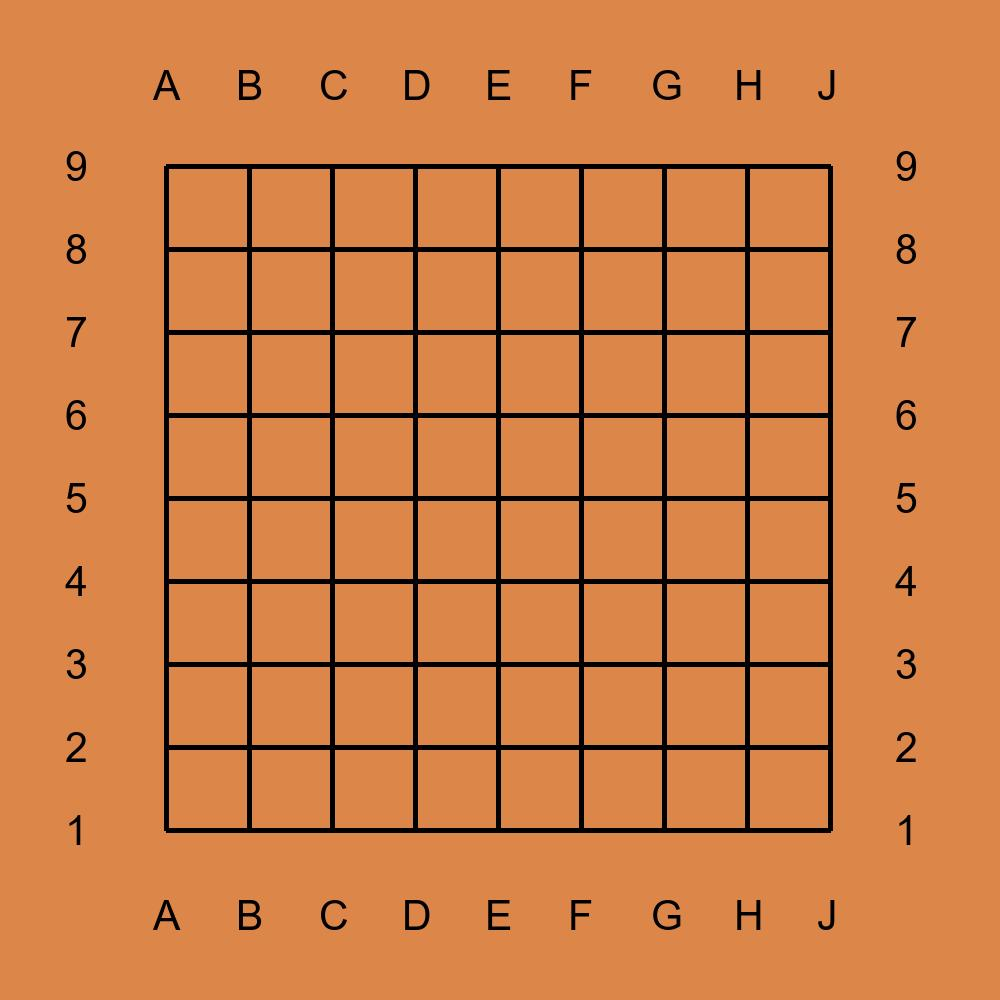
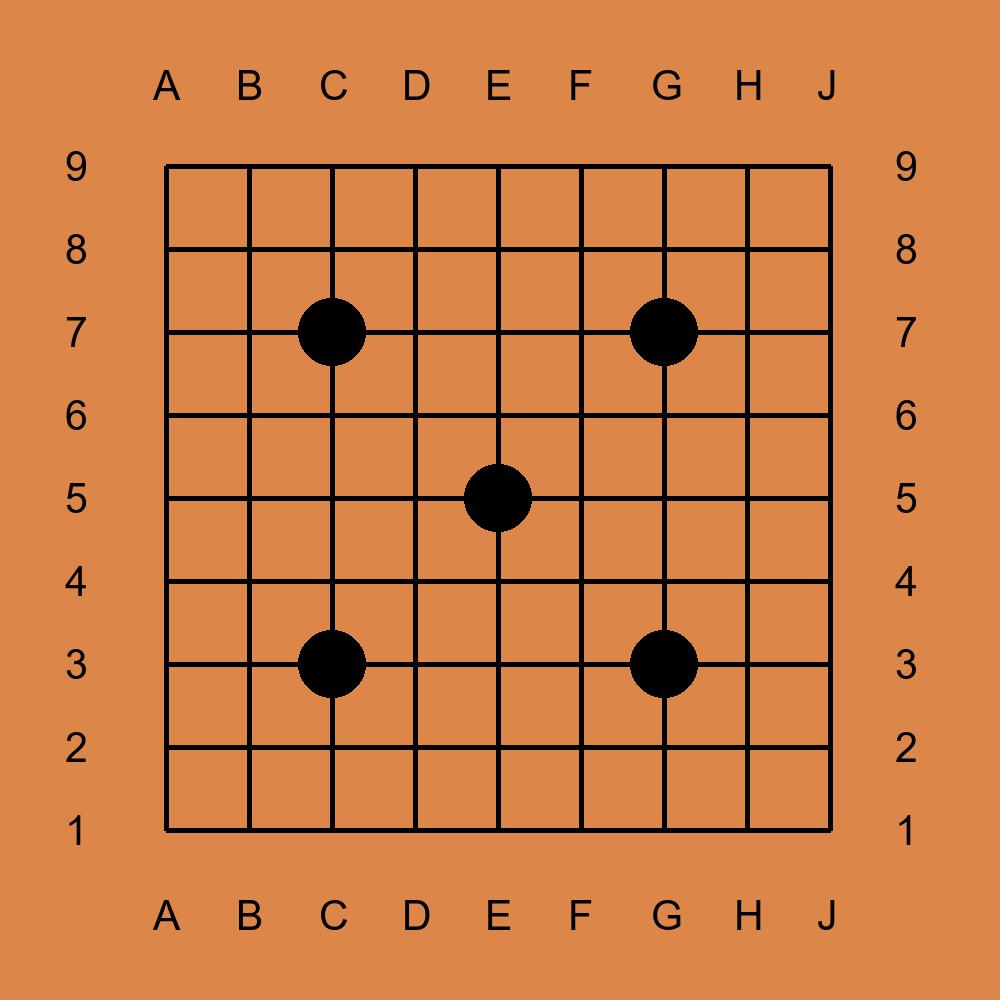
fix

diff --git a/templates/game_create.html b/templates/game_create.html
@@ -14,10 +14,33 @@
             </p>
             {% endfor %}
             </p>
+
             <p class="checkbox">
                 {{ form.black_white.label }}<br>
                 {{ form.black_white(class="checkbox")}}<br>
                 {% for error in form.black_white.errors %}
+            <p class="alert alert-danger" role="alert">
+                {{ error }}
+            </p>
+            {% endfor %}
+            </p>
+
+            <div>
+                <p>
+                    "9X9" - макс камней 5
+                </p>
+                <p>
+                    "13X13" - макс камней 9
+                </p>
+                <p>
+                    "19X19" - макс камней 9
+                </p>
+            </div>
+            <br>
+            <p class="stone">
+                {{ form.count_stone.label }}<br>
+                {{ form.count_stone(class="stone")}}<br>
+                {% for error in form.count_stone.errors %}
             <p class="alert alert-danger" role="alert">
                 {{ error }}
             </p>
@@ -33,6 +56,7 @@
             </p>
             {% endfor %}
             </p>
+
             <p>{{ form.submit(type="submit", class="btn btn-primary") }}</p>
             <div class="message">{{ message }}</div>
         </form>

diff --git a/templates/change_account.html b/templates/change_account.html
@@ -1,11 +1,11 @@
 {% extends "base.html" %}
 
 {% block content %}
-<div class="form-register">
-    <div class="form-login-register">
-        <form action="" method="post">
-        </form>
-    </div>
+<div class="button-change">
+    <a class="btn btn-info" href="/change_name">Поменять имя</a>
+    <a class="btn btn-success" href="/change_about">Поменять о себе</a>
+    <a class="btn btn-primary" href="/change_email">Поменять Email</a>
+    <a class="btn btn-warning" href="/change_password">Поменять пароль</a>
 </div>
 
 {% endblock %}

diff --git a/templates/game.html b/templates/game.html
@@ -16,10 +16,6 @@
     <h2 class="name">Имя противника: {{ name_player }}</h2>
     <h2 class="name">Ваше имя: {{ name }}</h2>
 </div>
-<div class="blocks">
-    <a class="btn btn-info" href="/">Играть</a>
-    <a class="btn btn-info" href="/game_join">Играть</a>
-</div>
 <h2 class="number_room">
         Номер комнаты: {{ number_room }}
 </h2>

diff --git a/static/css/game_field.css b/static/css/game_field.css
@@ -30,7 +30,7 @@ canvas {
     background-color: #111111;
     padding: 5px;
     margin: 10px;
-    margin-top: 40%;
+    margin-top: 33%;
     color: white;
     display: inline-block;
 }

diff --git a/static/css/style.css b/static/css/style.css
@@ -123,3 +123,9 @@ p
 {
     color: white;
 }
+.button-change
+{
+    display: flex;
+    justify-content: space-around;
+    margin-top: 30px;
+}

diff --git a/main.py b/main.py
@@ -10,7 +10,6 @@ from forms.login_form import LoginForm
 from forms.create_game import CreateGame
 from forms.del_account import DelAccount
 from forms.game_join import GameJoin
-from forms.edit import ChangeAccount
 
 from data import db_session
 from data.users import User
@@ -212,16 +211,10 @@ def change_account():
         'name': 1,
         'title': 'Редактирование Аккаунта'
     }
-
-    form = ChangeAccount()
-
     if ip_address in clients_dictionary:
         parametrs['name'] = clients_dictionary[ip_address][1]
         parametrs['name_is_exist'] = True
-
-    if form.validate_on_submit():
-        return render_template('change_account.html', form=form, **parametrs)
-    return render_template('change_account.html', form=form, **parametrs)
+    return render_template('change_account.html', **parametrs)
 
 
 @app.route("/leader_board")
@@ -279,6 +272,18 @@ def game_create() -> str:
                      "player_2": None,
                      "room_open": form.open_room.data
                      }
+        print(form.count_stone.data)
+        if int(form.count_stone.data) > 0:
+            if size_board == 9:
+                if int(form.count_stone.data) > 5:
+                    list_room["game"].handicap_stones(5)
+                else:
+                    list_room["game"].handicap_stones(int(form.count_stone.data))
+            else:
+                if int(form.count_stone.data) > 9:
+                    list_room["game"].handicap_stones(9)
+                else:
+                    list_room["game"].handicap_stones(int(form.count_stone.data))
         if form.black_white.data == "1":
             list_room['player_1'] = ip_address
         else:

diff --git a/forms/create_game.py b/forms/create_game.py
@@ -1,5 +1,5 @@
 from flask_wtf import FlaskForm
-from wtforms import PasswordField, StringField, TextAreaField, SubmitField, EmailField, RadioField, BooleanField
+from wtforms import PasswordField, StringField, IntegerField, SubmitField, RadioField, BooleanField
 from wtforms.validators import DataRequired
 
 
@@ -15,7 +15,8 @@ class CreateGame(FlaskForm):
         (1, "Черные"),
         (2, "Белые"),
     ],
-                             default=2,
+                             default=1,
                              validators=[DataRequired()])
+    count_stone = IntegerField('Гандикап камни: ')
     open_room = BooleanField('Закрытая комната:')
     submit = SubmitField('Создать')
